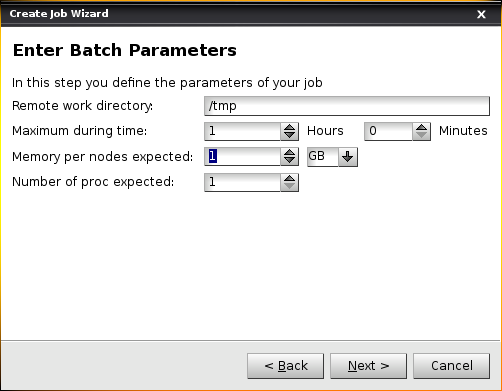
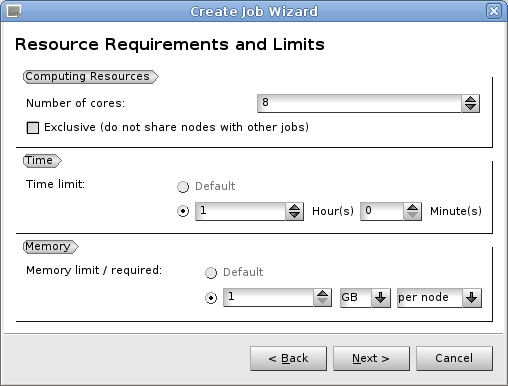
Update doc

diff --git a/doc/jobmanager_gui.rst b/doc/jobmanager_gui.rst
@@ -88,14 +88,12 @@ will be executed. You can also define the batch queue that you want to use.
 
   **Create wizard page 3**
 
-The fourth page (see :ref:`figure_jobmanager_job_workflow_3`) permits to define the batch parameters related
-to the job. It's mandatory to define the *Remote work directory* that is the directory where the job will be executed.
-Note that if a work directory is defined for the selected resource, the work directory for the job will be
-created as a subdirectory of the resource work directory by default. The name of this subdirectory will
-contain the current date and time. Of course, you can override this default value.
-Input files defined in page 4 will be copied in this work directory. You also have to define the maximum duration
+The fourth page (see :ref:`figure_jobmanager_job_workflow_3`) allows to define the resource requirements
+and limits for the job. You can define the maximum duration
 (set 0 hours and 0 minutes to use the default value for the queue),
-the amount of memory needed and the number of processors/cores of the job.
+the amount of memory needed (per node or per core if the batch manager supports it), the number of
+processors/cores for the job, and whether it should use nodes exclusively (not sharing them with other
+jobs).
 
 .. _figure_jobmanager_job_workflow_3:
 
@@ -106,8 +104,14 @@ the amount of memory needed and the number of processors/cores of the job.
 
 The fifth page (see :ref:`figure_jobmanager_job_workflow_4`) permits to add the input and output files. 
 Input files are files located into the user
-computer that have to be transferred into the execution resource. In this page, you could also define the result 
-directory where job's results and logs will be copied.
+computer that have to be transferred into the execution resource. Output files will be copied to the user
+computer at the end of the job.
+It's mandatory to define the *Remote working directory* that is the directory where the job will be executed.
+Note that if a working directory is defined for the selected resource, the working directory for the job will be
+created as a subdirectory of the resource working directory by default. The name of this subdirectory will
+contain the current date and time. Of course, you can override this default value.
+Input files will be copied in this working directory.
+In this page, you can also define the result directory where the job's results and logs will be copied.
 
 .. _figure_jobmanager_job_workflow_4:
 

diff --git a/doc/job.rst b/doc/job.rst
@@ -61,10 +61,13 @@ The second table below describes the attributes of computation requirements.
                          duration is set to 0, the time will be set to the default value of the
                          batch queue selected.
 **Number of cpu**        It's the number of cpus/cores requested.
-**Memory**               It's the amount of memory per node expected.
+**Memory**               It's the amount of required memory. It is generally specified **per node**.
+                         With some batch mangers, it is possible to specify the required memory
+                         **per core** (only available with SLURM for now).
 **Queue**                It's optional. It permits to choose a specific batch queue on the targeted cluster.
                          If it is not defined, most of the batch systems will affect your job to the queue
                          that fits with the other attributes requirements.
+**Exclusive**            It indicates if the job can share nodes with other jobs or not.
 ======================== ==============================================================================
 
 Job's states
